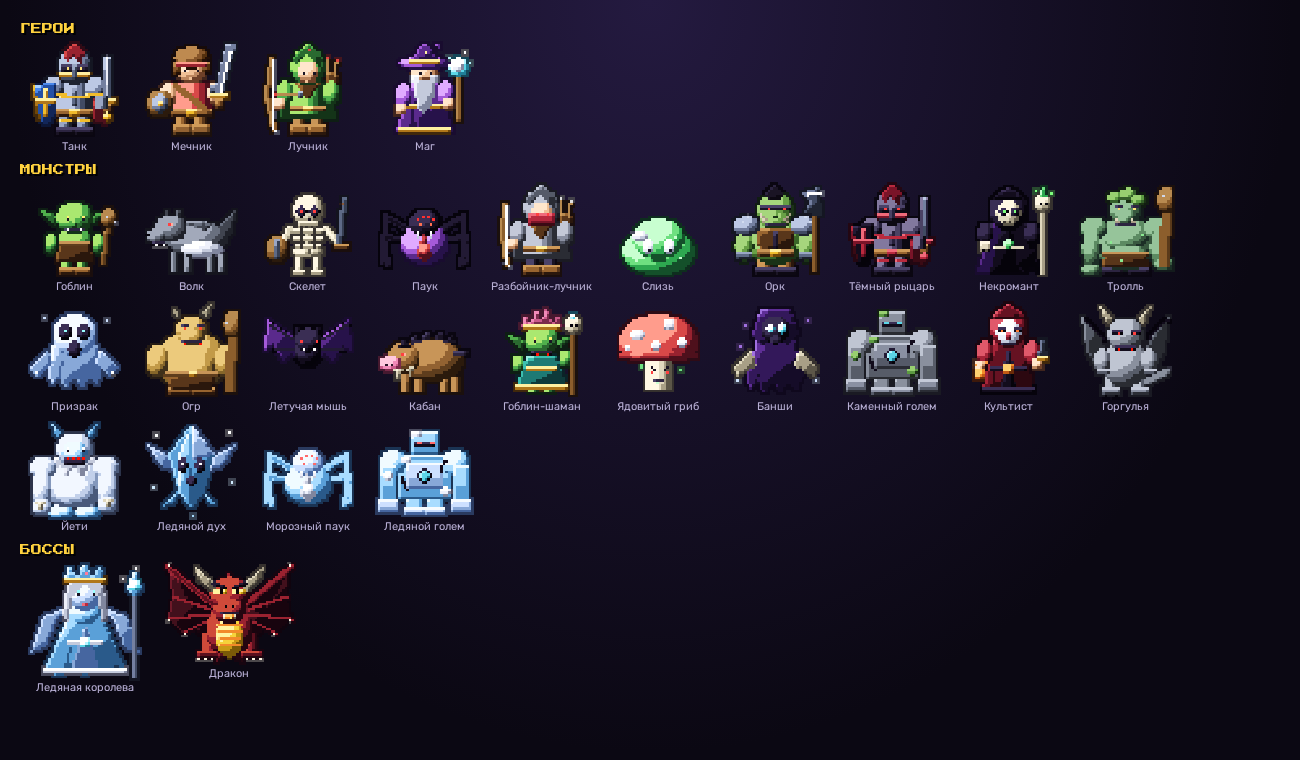
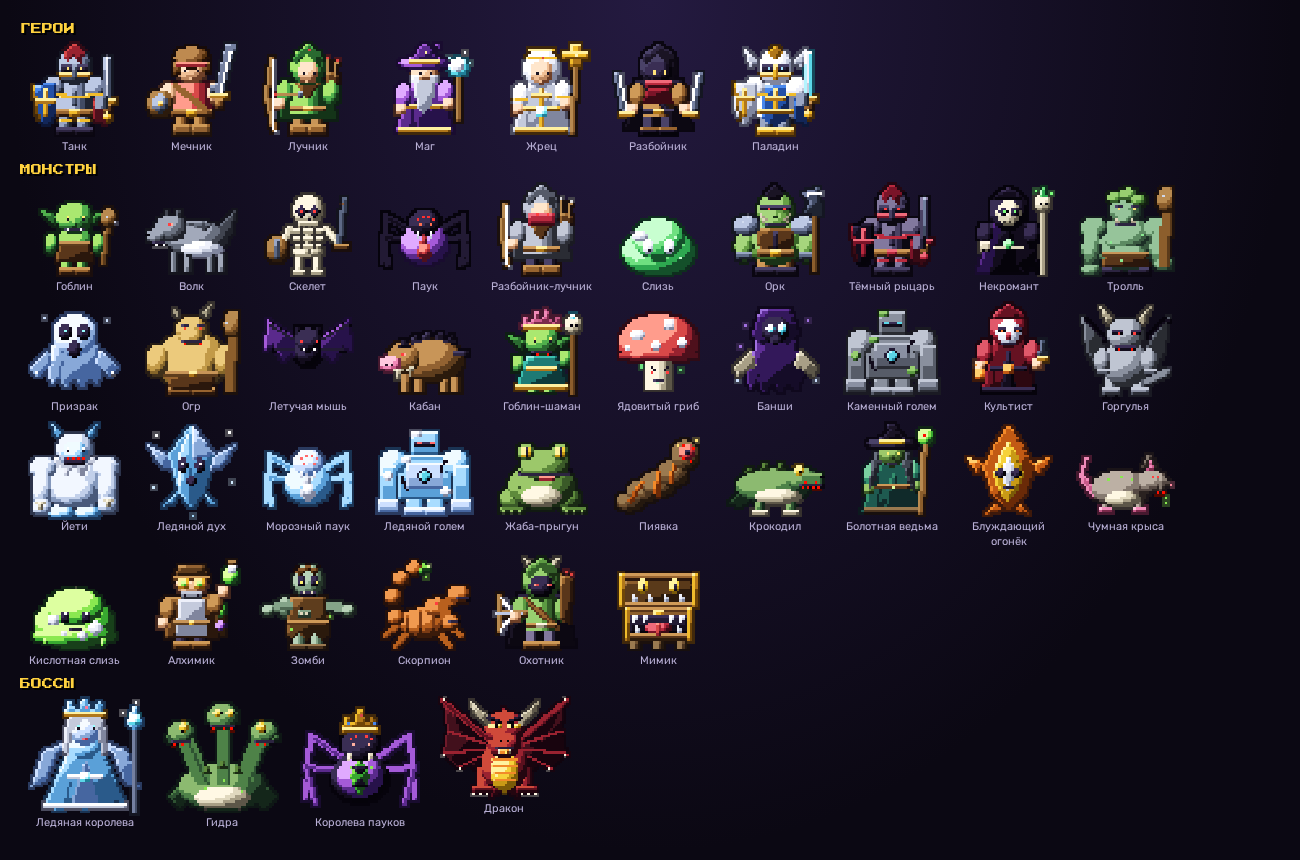
README: убраны разделы «Мультиплеер» и «Устройство проекта», обновлён бестиарий (7 героев, 37 монстров, 4 босса)

Changed region(s): [[0.0, 0.0303, 0.9231, 0.9684], [0.4923, 0.6053, 0.5231, 0.6355]]

diff --git a/README.md b/README.md
@@ -24,7 +24,7 @@
 
 ## 📖 Содержание
 
-[О игре](#-о-игре) · [Возможности](#-возможности) · [Скриншоты](#-скриншоты) · [Как играть](#-как-играть) · [Мультиплеер](#-мультиплеер) · [Устройство проекта](#-устройство-проекта) · [Дорожная карта](#-дорожная-карта)
+[О игре](#-о-игре) · [Возможности](#-возможности) · [Скриншоты](#-скриншоты) · [Как играть](#-как-играть) · [Дорожная карта](#-дорожная-карта)
 
 ---
 
@@ -173,51 +173,6 @@
 | Намерения врагов | кнопка **⚔** возле зума (включить / выключить) |
 
 **Цель сюжетного режима:** найти 5 ключей (два в лесу, два во второй локации, последний хранит мини-босс третьей) и победить Дракона. Чем меньше ключей, тем сильнее босс. На привалах вы сами выбираете путь на развилках.
-
-## 🌐 Мультиплеер
-
-1. Один игрок жмёт **«Создать комнату»** и получает код и ссылку вида `https://адрес/#room=ABCD`.
-2. Друзья открывают ссылку (код подставится сам) и жмут **«Войти по коду»**.
-3. В лобби каждый берёт героя, хост выбирает отряд, режим и сложность и жмёт **«Начать игру»**.
-4. Чтобы просто наблюдать, друзья жмут **«Смотреть игру (зритель)»** вместо «Войти по коду».
-
-**Как это устроено.** Сервер (`server/server.js`, ~80 строк) только пересылает сообщения по WebSocket между хостом и гостями. Вся игровая логика работает в браузере хоста, а гости получают снимки состояния. Поэтому сервер лёгкий — хватит любого мини-ПК.
-
-- Каждый гость получает токен: после обрыва связи он возвращается на своё место с теми же героями.
-- Если хост закрыл вкладку, партия сохраняется у него в браузере, а комната поднимается с тем же кодом.
-
-## 🧱 Устройство проекта
-
-```
-.
-├── index.html            # страница: разметка, стили, подключение скриптов
-├── js/                   # код игры, подключается по порядку (см. index.html): util, sprites, art*, data, core,
-│                         #   mapgen, start, meta, combat, actions, enemies, ai, flow, help, view, pixi, ui, net
-├── server/
-│   ├── server.js         # раздача игры + пересылка сообщений комнат (WebSocket), лимиты от злоупотреблений
-│   └── package.json
-├── vendor/
-│   └── pixi.min.js       # PixiJS 7 (MIT), раздаётся самим сервером
-├── art/                  # исходники пиксель-арта и анимаций
-│   ├── engine.js         # движок объёмного пиксель-арта (материалы, светотень, контур)
-│   ├── heroes.js         # герои
-│   ├── monsters1..4.js   # монстры по локациям
-│   ├── decor.js          # декорации и Дракон
-│   ├── anim.js           # покадровая анимация (деформация спрайтов)
-│   └── inject.py         # собирает арт в js/art.js
-├── deploy/               # systemd и nginx
-└── docs/screenshots/     # скриншоты для README
-```
-
-**Как править графику.** Откройте нужный файл в `art/` (например, `monsters2.js`), измените описание персонажа и выполните:
-
-```bash
-python3 art/inject.py
-```
-
-Скрипт пересоберёт файл `js/art.js` (он генерируется — руками его не правят).
-
-**Технологии:** JavaScript (без сборщика), PixiJS 7, Web Audio API, WebSocket (`ws`), Node.js. Шрифты: Press Start 2P и Rubik (Google Fonts).
 
 ## 🗺 Дорожная карта
 
